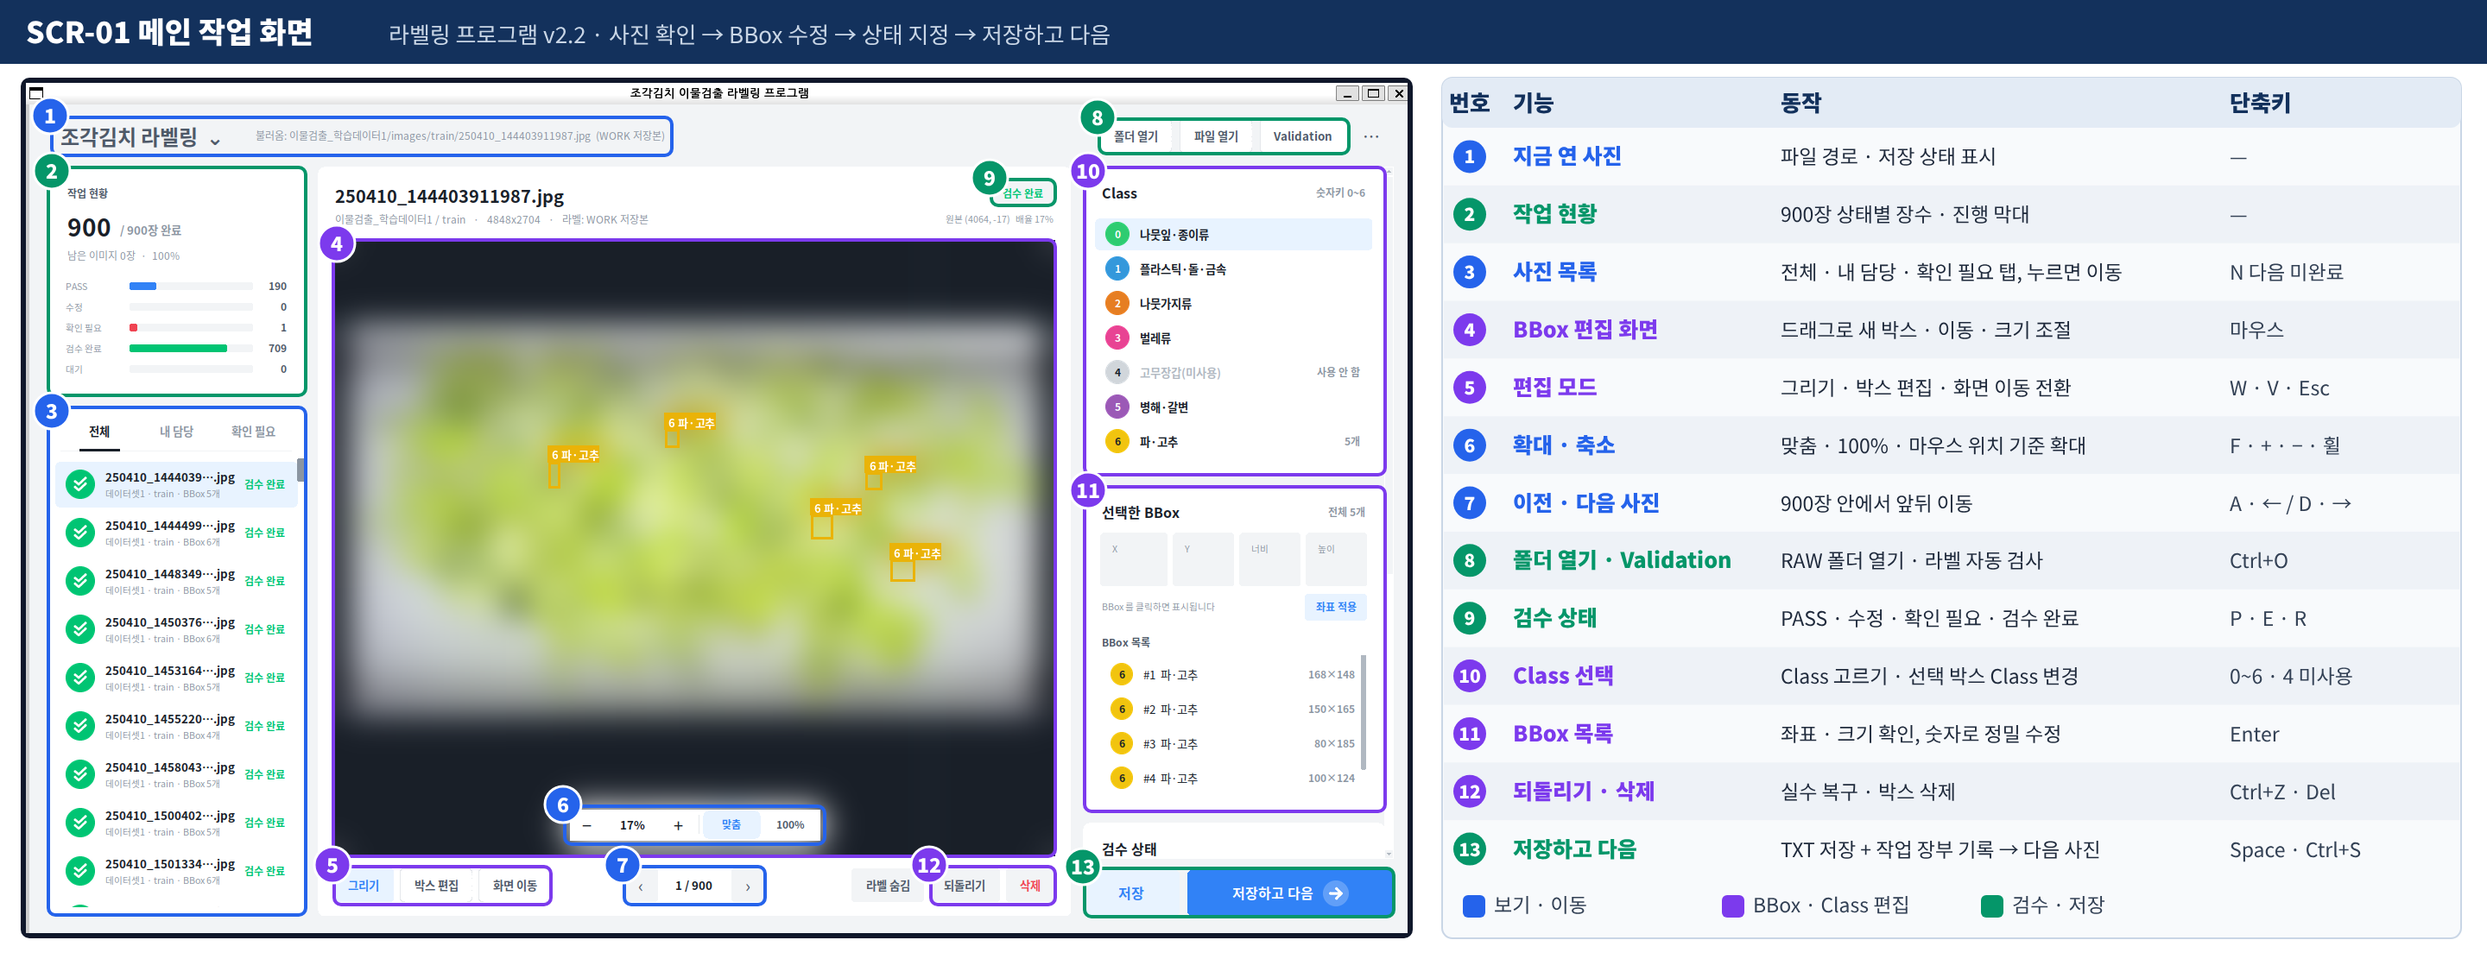
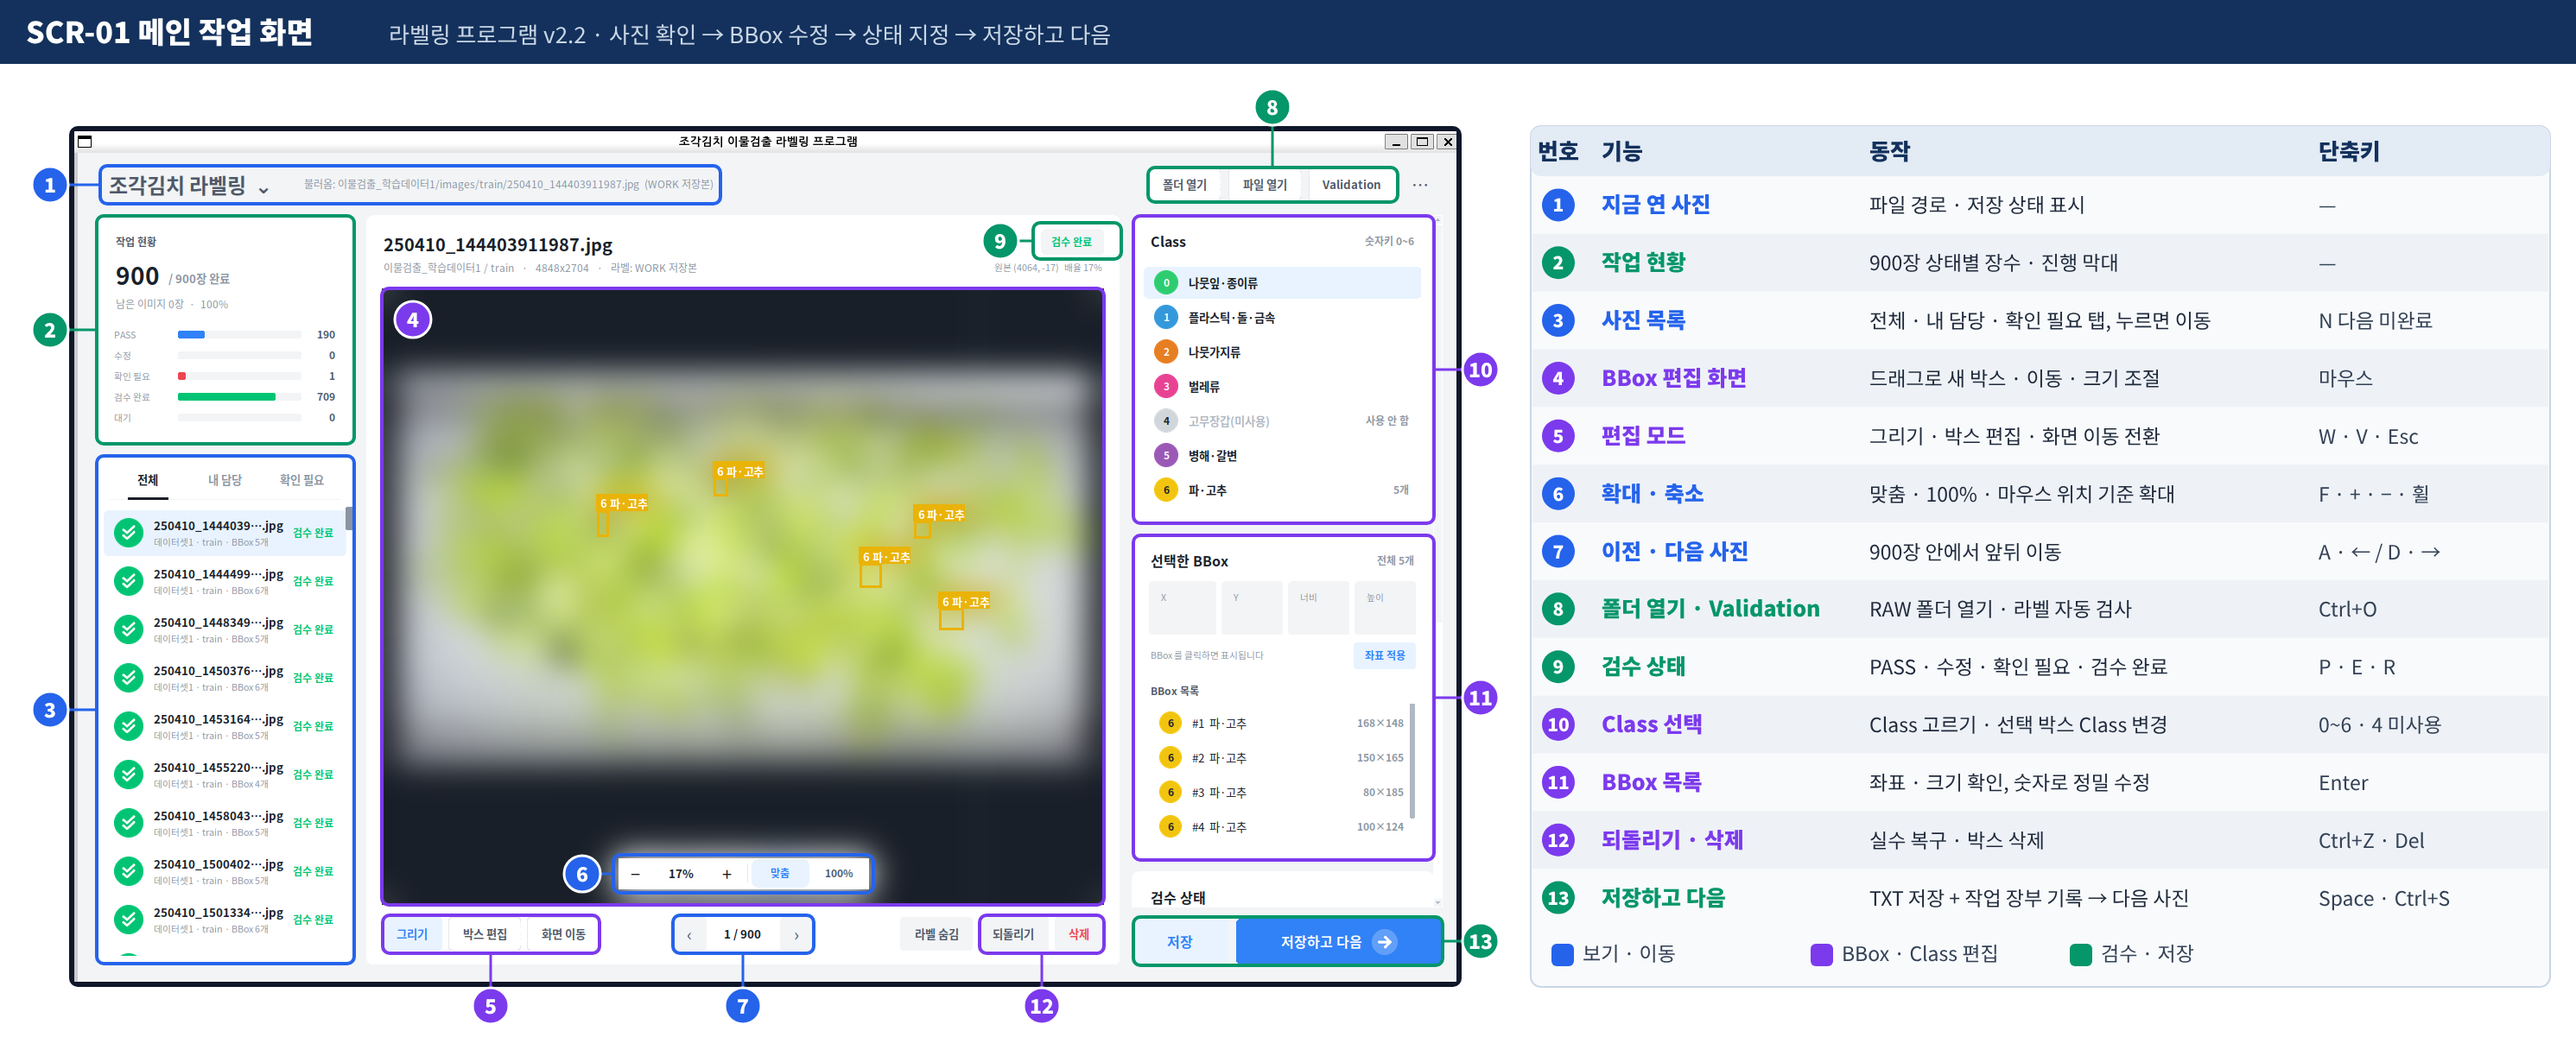
docs(p7): README 고무장갑 배경 이유 · 강사님 방식 폴더 트리 · WBS 일정표 이미지 · 작동 화면 번호 위치 정리

diff --git a/project7/README.md b/project7/README.md
@@ -10,7 +10,14 @@
 
 900장 **전수 검수**를 완료했으며, 자동 검사 오류(CRITICAL)는 **0건**입니다. 900장 중 **778장(86%)** 의 라벨을 고쳤고, 원본 BBox 의 **54%(2,383개)를 수정**했으며 누락된 이물 **350개를 추가**했습니다.
 
-특히 원본에서 이물로 표기되어 있던 **고무장갑을 김치와 같은 배경으로 정의**하고 박스를 모두 삭제했습니다. 고무장갑은 공정에 늘 있는 대상이라, 이물로 학습하면 정상 작업 장면까지 불량으로 판정하게 됩니다. 배경으로 학습시켜 **모델이 실제 이물만 검출**하도록 기준을 세웠습니다.
+특히 **고무장갑을 김치와 같은 배경으로 정의**하고 고무장갑 박스를 모두 삭제해, **모델이 실제 이물만 검출**하도록 기준을 세웠습니다.
+
+**고무장갑을 배경으로 정한 이유**
+
+- **Class 4 는 번호만 있는 미사용 Class** — 고무장갑은 Class 4 로 배정되어 있지만 강사님 수행가이드에서 '이번 프로젝트에서 사용하지 않는 항목' 으로 정해졌고, 원본 라벨에도 Class 4 는 0건이었습니다.
+- **원본에서는 플라스틱 이물로 잘못 표기** — 대신 고무장갑이 Class 1 플라스틱 · 돌 · 금속 박스로 들어가 있어, 실제 플라스틱 이물과 섞여 있었습니다.
+- **고무장갑은 이물이 아니라 공정 배경** — 작업자가 쓰는 장갑으로 촬영 장면에 늘 함께 나옵니다. 박스가 하나라도 남으면 모델이 고무장갑을 이물로 배워 정상 작업 장면까지 불량으로 판정합니다.
+- **결정** — 박스를 그리지 않고 기존 박스는 삭제해 배경으로 학습시킵니다 (Class 기준서 v1.7 · 10/12). Class 4 번호는 교과 8 과 맞추려고 비워 둡니다 → [ISSUE-05](docs/05_issue_improvement.md#issue-05-고무장갑-class)
 
 ### 개선 효과
 
@@ -24,7 +31,7 @@
 | 라벨 보정 | **778장** 수정 · 박스 2,383개 수정 · 누락 이물 350개 추가 |
 | 품질 | 자동 검사 CRITICAL **0** · 남은 REVIEW **0** |
 
-근거 → [QA Summary](reports/01_qa_summary.md) · [고무장갑 기준 ISSUE-05](docs/05_issue_improvement.md#issue-05-고무장갑-class)
+근거 → [QA Summary](reports/01_qa_summary.md)
 
 ### 화면 설계 · 작동 화면
 
@@ -39,15 +46,6 @@
 
 데이터 처리 흐름: **원본 RAW(읽기만) → 작업본 WORK(프로그램이 저장) → 합치기 · 검수 → FINAL(교과 8 입력)**
 
-### 바로가기
-
-| 용도 | 바로가기 |
-|---|---|
-| 처음 실행 | [GitHub 3분 설치 · 실행](#github-3분-설치--실행) → [5. 기본 사용 순서](#5-기본-사용-순서) |
-| 성과 · 근거 | [개선 효과](#개선-효과) · [11. QA · 테스트 결과](#11-qa--테스트-결과) · [14. 산출물](#14-산출물--버전-관리) |
-| 기준 · 문서 | [3. 폴더 구조 · 문서 지도](#3-프로젝트-폴더-구조) · [13. WBS 일정](#wbs-일정) |
-| 문제 대응 | [15. 주의사항](#15-주의사항) |
-
 ### 팀원 소개
 
 | 직책 | 역할 | 브랜치 | 주요 산출물 |
@@ -58,6 +56,15 @@
 | Storage | 라벨 저장 로직 · 데이터 취합 · 배포 | feature/storage | 저장 · 합치기 |
 | QA | 자동 검사 · RAW 보호 · 테스트 | feature/qa | Validation · Test Report |
 | Manifest | 작업 장부 · 기록 · 인계 · 서기 | feature/manifest | Manifest · QA Summary · Handoff |
+
+### 바로가기
+
+| 용도 | 바로가기 |
+|---|---|
+| 처음 실행 | [GitHub 3분 설치 · 실행](#github-3분-설치--실행) → [5. 기본 사용 순서](#5-기본-사용-순서) |
+| 성과 · 근거 | [개선 효과](#개선-효과) · [11. QA · 테스트 결과](#11-qa--테스트-결과) · [14. 산출물](#14-산출물--버전-관리) |
+| 기준 · 문서 | [3. 폴더 구조 · 문서 지도](#3-프로젝트-폴더-구조) · [13. WBS 일정](#wbs-일정) |
+| 문제 대응 | [15. 주의사항](#15-주의사항) |
 
 <br>
 
@@ -114,20 +121,38 @@ bash run.sh --raw data/dummy_raw
 
 ## 3. 프로젝트 폴더 구조
 
-`# 설명 · 담당 · 수정일` 순서입니다. 파일별 역할은 [09 코드 공부 0.2 파일 지도](docs/09_code_study.md#02-파일-지도와-역할-담당)
-
 ```text
 project7/
-├── main.py · run.sh · setup_wsl.sh   # 시작 · 실행 · 설치 · PM · 10/12
-├── configs/      # Class 0~6 설정 · Storage · 10/12
-├── src/          # 화면 · BBox · YOLO · 자동 검사 · 작업 장부 · 역할별 · 10/15
-├── scripts/      # 운영 스크립트 00~10 · 배정 → 합치기 → FINAL → 인계 · PM · 10/15
-├── tests/        # 자동 테스트 4개 · QA · 10/15
-├── docs/         # 기준서 · 설명서 · 기록 01~10 · 아래 문서 지도 · 10/15
-├── reports/      # QA Summary · Test Report · 검사 결과 · Manifest · QA · 10/14
-├── manifests/    # 작업 장부 사본 · Manifest · 10/14
-└── data/         # RAW → WORK → FINAL · Git 제외 · Storage · 10/14
+│
+├── main.py                    ← 프로그램 시작
+├── run.sh · setup_wsl.sh      ← 실행 · 설치
+├── requirements.txt           ← 실행 환경 패키지
+├── README.md                  ← 프로젝트 안내
+│
+├── src/                       ← 라벨링 프로그램 코드
+│   ├── ui/                    ← 화면 · 메뉴
+│   ├── bbox/                  ← BBox 편집 · 저장 규칙
+│   ├── yolo/                  ← YOLO TXT 읽기 · 쓰기
+│   ├── validation/            ← 라벨 자동 검사
+│   └── manifest.py            ← 작업 장부 기록
+│
+├── configs/
+│   └── classes.yaml           ← Class 0~6 설정
+│
+├── scripts/                   ← 배정 → 합치기 → 검사 → FINAL → 인계
+├── tests/                     ← 자동 테스트
+│
+├── docs/                      ← 기준서 · 설명서 · 기록 (아래 문서 지도)
+├── manifests/                 ← 작업 장부
+├── reports/                   ← QA Summary · Test Report
+│
+└── data/                      ← 실제 데이터 · Git 제외
+    ├── raw/                   ← 원본 · 읽기만
+    ├── work_raw/              ← 작업본
+    └── final/                 ← FINAL 900쌍 · 교과 8 입력
 ```
+
+파일별 역할 · 코드 흐름 → [09 코드 공부 0.2 파일 지도](docs/09_code_study.md#02-파일-지도와-역할-담당)
 
 ### 문서 지도
 
@@ -257,73 +282,11 @@ project7/
 
 ### WBS 일정
 
-프로젝트 전체 범위를 산출물 기준 6개 단계(Level 1)와 작업 단위(Level 2)로 나누었습니다. 단계 아래 작업을 모두 끝내면 그 단계가 완료됩니다. 수업일 기준이며 10/05 · 10/09 는 공휴일입니다.
+프로젝트 범위를 진행단계 → 수행내용 → 상세수행내용으로 나누고, 상세수행내용마다 담당 · 기간을 정해 일정으로 관리했습니다.
 
-| WBS | 작업 | 산출물 | 담당 | 시작 | 종료 | 상태 |
-|---|---|---|---|---|---|---|
-| **1** | **프로젝트 관리** | | **PM** | **10/01** | **10/21** | |
-| 1.1 | 조 편성 · 역할 정의 | 역할 · 브랜치 표 | PM | 10/01 | 10/01 | 완료 |
-| 1.2 | 기준선 수립 | [01 Project Baseline](docs/01_project_baseline.md) | PM · Manifest | 10/02 | 10/02 | 완료 |
-| 1.3 | 저장소 · 브랜치 · PR 관리 | GitHub 저장소 | PM | 10/02 | 10/21 | 진행 |
-| 1.4 | 날짜별 작업 기록 | [07 팀 작업 기록](docs/07_team_worklog.md) | Manifest | 10/01 | 10/14 | 완료 |
-| **2** | **라벨링 프로그램 개발** | | | **10/02** | **10/13** | |
-| 2.1 | 화면 설계 v01 → v02 | [화면 디자인](docs/images/gui_v02.png) | GUI | 10/02 | 10/07 | 완료 |
-| 2.2 | BBox 편집 · 좌표 변환 | `src/bbox/` | Coord | 10/02 | 10/06 | 완료 |
-| 2.3 | YOLO TXT 읽기 · 저장 | `src/yolo/` | Storage | 10/02 | 10/06 | 완료 |
-| 2.4 | 작업 장부 | `src/manifest*.py` | Manifest | 10/02 | 10/08 | 완료 |
-| 2.5 | 자동 검사 · 자동 테스트 | `src/validation/` · `tests/` | QA | 10/02 | 10/13 | 완료 |
-| 2.6 | 통합 · 배포 v01 → v2.2 | 프로그램 v2.2 | PM | 10/06 | 10/08 | 완료 |
-| **3** | **라벨링 기준서** | | **Coord** | **10/06** | **10/14** | |
-| 3.1 | Class 기준서 v1.0 → v1.7.2 | [02 Class 기준서](docs/02_class_guide.md) | Coord | 10/06 | 10/14 | 완료 |
-| 3.2 | BBox 기준서 v1.0 → v1.2 | [03 BBox 기준서](docs/03_bbox_guide.md) | Coord | 10/06 | 10/13 | 완료 |
-| **4** | **라벨링 · 검수** | | **전원** | **10/06** | **10/13** | |
-| 4.1 | 1차 라벨링 900장 | 작업본 TXT · 장부 | 전원 | 10/06 | 10/07 | 완료 |
-| 4.2 | 교차검수 710장 | 검수 기록 | 전원 | 10/08 | 10/12 | 완료 |
-| 4.3 | 최종검수 3명 × 300장 | 900장 REVIEWED | 검수자 3명 | 10/12 | 10/13 | 완료 |
-| **5** | **품질 검증 · FINAL** | | | **10/13** | **10/16** | |
-| 5.1 | 자동 검사 · RAW 보호 | [검사 결과](reports/03_validation_final.csv) | QA | 10/13 | 10/13 | 완료 |
-| 5.2 | QA Summary | [01 QA Summary](reports/01_qa_summary.md) | Manifest | 10/13 | 10/14 | 완료 |
-| 5.3 | FINAL 생성 | `data/final/` 900쌍 | PM | 10/13 | 10/14 | 완료 |
-| 5.4 | Test Report Golden · Pilot | [02 Test Report](reports/02_test_report.md) | QA · Coord | 10/13 | 10/16 | 진행 |
-| **6** | **인계 · 문서 · 발표** | | | **10/13** | **10/21** | |
-| 6.1 | 교과 8 Handoff | [10 Handoff](docs/10_subject08_handoff.md) | Manifest | 10/13 | 10/14 | 완료 |
-| 6.2 | Dataset Manifest | `manifests/dataset_manifest.csv` | Manifest | 10/16 | 10/16 | 예정 |
-| 6.3 | README · 문서 정리 | README · docs 01~10 | PM | 10/15 | 10/16 | 진행 |
-| 6.4 | 발표 준비 · 발표 | 발표 자료 · 시연 | PM · GUI | 10/16 | 10/21 | 진행 |
+![조각김치 이물검출 라벨링 WBS 일정](docs/images/wbs_schedule.png)
 
-| 마일스톤 | 날짜 |
-|---|---|
-| 프로그램 v01 배포 · 라벨링 시작 | 10/06 |
-| 프로그램 v2.2 배포 · 교차검수 시작 | 10/08 |
-| Feature Freeze · 이후 버그 수정 · 문서만 | 10/13 |
-| FINAL 900쌍 · 교과 8 인계 | 10/14 |
-| 전체 완료 · 발표는 10/22 | 10/21 |
-
-```mermaid
-gantt
-    title WBS 일정
-    dateFormat YYYY-MM-DD
-    axisFormat %m/%d
-    excludes weekends, 2026-10-05, 2026-10-09
-    section 1 관리
-    조 편성 · 기준선          :done, 2026-10-01, 2026-10-03
-    section 2 프로그램
-    화면 · 기능 개발 v01 → v2.2 :done, 2026-10-02, 2026-10-09
-    자동 검사 보완             :done, 2026-10-12, 2026-10-14
-    section 3 기준서
-    Class · BBox 기준서        :done, 2026-10-06, 2026-10-15
-    section 4 라벨링 · 검수
-    1차 라벨링                 :done, 2026-10-06, 2026-10-08
-    교차검수                   :done, 2026-10-08, 2026-10-13
-    최종검수                   :done, 2026-10-12, 2026-10-14
-    section 5 품질 · FINAL
-    검사 · QA Summary · FINAL  :done, 2026-10-13, 2026-10-15
-    Test Report                :active, 2026-10-13, 2026-10-17
-    section 6 인계 · 발표
-    교과 8 Handoff             :done, 2026-10-13, 2026-10-15
-    문서 정리                  :active, 2026-10-15, 2026-10-17
-    발표 준비                  :active, 2026-10-16, 2026-10-22
-```
+날짜별 실제 작업 → [07 팀 작업 기록](docs/07_team_worklog.md) · 버전별 변경 → [06 버전 기록](docs/06_version_history.md)
 
 <br>
 
